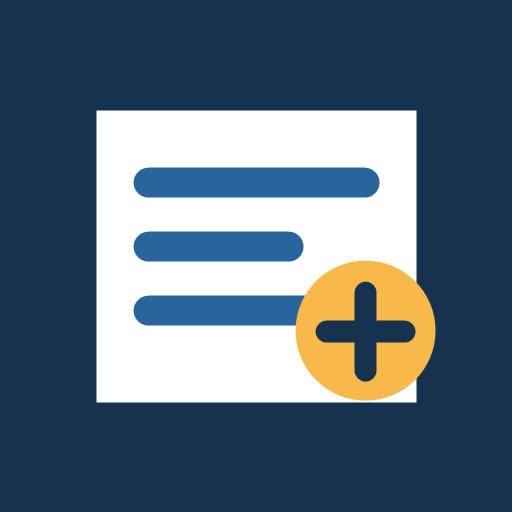
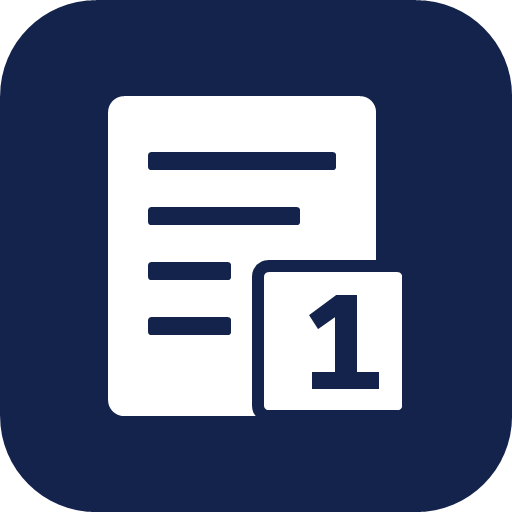
남색 흰색 테마와 사각 순서 배지 적용

diff --git a/2학년 말하기 제비뽑기.html b/2학년 말하기 제비뽑기.html
@@ -3,64 +3,65 @@
 <head>
   <meta charset="utf-8">
   <meta name="viewport" content="width=device-width, initial-scale=1, viewport-fit=cover">
-  <meta name="theme-color" content="#173b5f">
+  <meta name="theme-color" content="#14234b">
   <meta name="apple-mobile-web-app-capable" content="yes">
   <meta name="apple-mobile-web-app-status-bar-style" content="default">
   <meta name="apple-mobile-web-app-title" content="제비뽑기">
   <title>제비뽑기</title>
-  <link rel="manifest" href="manifest.webmanifest?v=14">
-  <link rel="icon" sizes="192x192" href="icon-192.png">
-  <link rel="apple-touch-icon" sizes="180x180" href="icon-180.png">
+  <link rel="manifest" href="manifest.webmanifest?v=15">
+  <link rel="icon" sizes="192x192" href="icon-192.png?v=15">
+  <link rel="apple-touch-icon" sizes="180x180" href="icon-180.png?v=15">
   <style>
-    :root { --ink:#12202e; --navy:#173b5f; --blue:#24689e; --line:#b9c8d5; --paper:#fff; --soft:#eaf1f6; --warm:#ffd465; --shade:#f1f5f8; --danger:#a33a3a; }
+    :root { --ink:#14234b; --navy:#14234b; --blue:#24386c; --line:#c7cfdf; --paper:#fff; --soft:#eef1f7; --shade:#f7f8fb; --muted:#5c6680; --danger:#344263; }
     * { box-sizing:border-box; }
-    body { margin:0; background:#dfe7ed; color:var(--ink); font-family:-apple-system,BlinkMacSystemFont,"Apple SD Gothic Neo","Noto Sans KR",sans-serif; font-size:18px; }
+    body { margin:0; background:#eef1f6; color:var(--ink); font-family:-apple-system,BlinkMacSystemFont,"Apple SD Gothic Neo","Noto Sans KR",sans-serif; font-size:18px; }
     button, input { font:inherit; }
     button { touch-action:manipulation; }
+    button:focus-visible, input:focus-visible { outline:3px solid var(--blue); outline-offset:3px; box-shadow:0 0 0 5px #fff; }
+    input { color:var(--ink); accent-color:var(--navy); }
     .app { width:min(1180px,100%); min-height:100vh; min-height:100dvh; margin:0 auto; background:var(--paper); box-shadow:0 0 36px rgba(18,32,46,.13); }
     header { display:flex; align-items:center; justify-content:space-between; gap:16px; padding:calc(25px + env(safe-area-inset-top)) calc(28px + env(safe-area-inset-right)) 21px calc(28px + env(safe-area-inset-left)); background:var(--navy); color:#fff; }
     h1 { margin:0; font-size:clamp(32px,5vw,48px); letter-spacing:-.05em; }
     .install { border:2px solid #fff; border-radius:10px; background:#fff; color:var(--navy); padding:10px 16px; font-weight:900; white-space:nowrap; cursor:pointer; }
     nav { display:flex; overflow-x:auto; border-bottom:2px solid var(--line); background:#fff; position:sticky; top:0; z-index:10; scrollbar-width:thin; }
-    .tab { flex:0 0 auto; min-width:155px; border:0; border-bottom:6px solid transparent; background:#fff; padding:17px 16px 13px; color:#4b5b68; font-size:20px; font-weight:900; cursor:pointer; }
-    .tab.active { color:var(--navy); background:#eef5fa; border-bottom-color:var(--warm); }
+    .tab { flex:0 0 auto; min-width:155px; border:0; border-bottom:6px solid transparent; background:#fff; padding:17px 16px 13px; color:var(--muted); font-size:20px; font-weight:900; cursor:pointer; }
+    .tab.active { color:var(--navy); background:var(--soft); border-bottom-color:var(--navy); }
     .custom-tab-item { position:relative; display:flex; flex:0 0 auto; align-items:center; background:#fff; }
     .custom-tab-item .tab { padding-right:48px; }
     #sortableTabsNav { display:contents; }
     #sortableTabsNav .tab { cursor:grab; }
     #sortableTabsNav .tab:active { cursor:grabbing; }
-    .tab-drag-ghost { opacity:.35; }
-    .tab-drag-chosen { box-shadow:0 5px 16px rgba(18,32,46,.24); z-index:12; }
-    #sortableTabsNav { display:contents; }
-    .tab-drag-ghost { opacity:.35; background:#d6e5f0; }
-    .tab-drag-chosen { box-shadow:inset 0 -5px 0 var(--warm); }
-    .tab-close { position:absolute; right:10px; top:50%; transform:translateY(-54%); display:grid; place-items:center; width:28px; height:28px; padding:0; border:0; border-radius:50%; background:#a93c3c; color:#fff; font-size:20px; line-height:1; font-weight:1000; cursor:pointer; box-shadow:0 2px 0 rgba(0,0,0,.2); }
-    .tab-close:hover { background:#842a2a; }
+    .tab-drag-ghost { opacity:.35; background:var(--soft); }
+    .tab-drag-chosen { box-shadow:inset 0 -5px 0 var(--navy); z-index:12; }
+    .tab-close { position:absolute; right:10px; top:50%; transform:translateY(-54%); display:grid; place-items:center; width:28px; height:28px; padding:0; border:0; border-radius:50%; background:var(--navy); color:#fff; font-size:20px; line-height:1; font-weight:1000; cursor:pointer; box-shadow:0 2px 0 rgba(20,35,75,.2); }
+    .tab-close:hover { background:var(--blue); }
     .tab-close:active { transform:translateY(-48%); box-shadow:none; }
     .add-tab { flex:0 0 auto; border:0; border-left:1px solid var(--line); background:var(--navy); color:#fff; padding:14px 19px; font-size:19px; font-weight:900; cursor:pointer; }
-    #addTabBtn { min-width:58px; color:var(--warm); font-size:30px; line-height:1; }
+    #addTabBtn { min-width:58px; color:#fff; font-size:30px; line-height:1; }
     .fixed-direct-tab { color:#fff; }
-    .fixed-direct-tab.active { background:var(--blue); box-shadow:inset 0 -6px 0 var(--warm); }
+    .fixed-direct-tab.active { background:var(--blue); color:#fff; box-shadow:inset 0 -6px 0 #fff; border-bottom-color:var(--blue); }
     main { padding:26px max(28px,env(safe-area-inset-right)) calc(52px + env(safe-area-inset-bottom)) max(28px,env(safe-area-inset-left)); }
     .panel { display:none; }
     .panel.active { display:block; }
     .toolbar { display:flex; flex-wrap:wrap; align-items:end; gap:11px; margin-bottom:20px; }
     .order-box { display:flex; flex-wrap:wrap; gap:10px; padding:13px; background:var(--soft); border:1px solid var(--line); border-radius:11px; }
     .order-box label { display:flex; align-items:center; gap:8px; font-size:19px; font-weight:900; }
-    .order-box input { width:66px; border:2px solid #8fa5b7; border-radius:8px; padding:9px; text-align:center; background:#fff; font-size:20px; font-weight:900; }
-    .btn { border:0; border-radius:9px; background:var(--blue); color:#fff; padding:12px 17px; font-size:18px; font-weight:900; cursor:pointer; box-shadow:0 3px 0 rgba(0,0,0,.16); }
+    .order-box input { width:66px; border:2px solid var(--line); border-radius:6px; padding:9px; text-align:center; background:#fff; font-size:20px; font-weight:900; }
+    .btn { border:1px solid transparent; border-radius:6px; background:var(--navy); color:#fff; padding:12px 17px; font-size:18px; font-weight:900; cursor:pointer; box-shadow:0 3px 0 rgba(20,35,75,.15); transition:background-color .18s,box-shadow .18s; }
+    .btn:hover:not(:disabled) { background:var(--blue); }
     .btn:active { transform:translateY(2px); box-shadow:none; }
-    .btn.secondary { background:#5a6c7d; }
-    .btn.light { background:#e5edf3; color:var(--navy); border:1px solid #aebdca; box-shadow:0 2px 0 #aebdca; }
+    .btn.secondary { background:var(--blue); }
+    .btn.light { background:#fff; color:var(--navy); border:1px solid #8c99b5; box-shadow:0 2px 0 var(--line); }
+    .btn.light:hover:not(:disabled) { background:var(--soft); }
     .btn.danger { background:var(--danger); }
-    .class-card { margin:0 0 28px; border:2px solid var(--line); border-radius:13px; overflow:hidden; background:#fff; }
-    .class-head { display:flex; align-items:center; justify-content:space-between; gap:12px; padding:14px 16px; background:#dce8f1; border-bottom:2px solid var(--line); }
+    .class-card { margin:0 0 28px; border:1px solid var(--line); border-radius:8px; overflow:hidden; background:#fff; }
+    .class-head { display:flex; align-items:center; justify-content:space-between; gap:12px; padding:14px 16px; background:var(--soft); border-bottom:1px solid var(--line); }
     .class-head h2 { margin:0; font-size:27px; }
-    .capture-title { margin:0 0 14px; padding:13px 16px; background:var(--navy); color:#fff; border-radius:10px; font-size:28px; }
+    .capture-title { margin:0 0 14px; padding:15px 18px; background:var(--navy); color:#fff; border-radius:6px; font-size:28px; letter-spacing:-.03em; }
     .table-wrap { overflow-x:auto; }
     table { width:100%; min-width:650px; border-collapse:collapse; table-layout:fixed; }
-    th, td { padding:14px 12px; border-bottom:1px solid #cbd6df; text-align:center; }
-    th { background:#cbdce8; color:#18344d; font-size:20px; font-weight:900; }
+    th, td { padding:14px 12px; border-bottom:1px solid var(--line); text-align:center; }
+    th { background:var(--soft); color:var(--navy); font-size:20px; font-weight:900; }
     tbody tr:nth-child(even) td { background:var(--shade); }
     tbody tr:last-child td { border-bottom:0; }
     td { font-size:22px; font-weight:700; }
@@ -68,52 +69,52 @@
     td:nth-child(2), th:nth-child(2) { width:25%; }
     td:nth-child(3), th:nth-child(3) { width:34%; }
     td:nth-child(4), th:nth-child(4) { width:26%; }
-    td.order-cell, tbody tr:nth-child(even) td.order-cell { background:#fff0b8; }
-    th.order-head { background:#f3bd39; color:#112a40; }
+    td.order-cell, tbody tr:nth-child(even) td.order-cell { background:#e9edf6; border-left:1px solid var(--line); }
+    th.order-head { background:var(--navy); color:#fff; letter-spacing:.08em; }
     .name-with-exclude { display:flex; align-items:center; justify-content:center; gap:14px; }
-    .exclude-label { display:inline-flex; align-items:center; gap:5px; padding:5px 8px; border:1px solid #b7c3cd; border-radius:7px; background:#fff; color:#7d2d2d; font-size:15px; font-weight:900; white-space:nowrap; cursor:pointer; }
-    .exclude-label input { width:21px; height:21px; margin:0; accent-color:#b33b3b; }
-    .excluded-row td, tbody tr:nth-child(even).excluded-row td { background:#e4e7e9; color:#7a8289; }
+    .exclude-label { display:inline-flex; align-items:center; gap:5px; padding:5px 8px; border:1px solid var(--line); border-radius:5px; background:#fff; color:var(--muted); font-size:15px; font-weight:900; white-space:nowrap; cursor:pointer; }
+    .exclude-label input { width:21px; height:21px; margin:0; accent-color:var(--navy); }
+    .excluded-row td, tbody tr:nth-child(even).excluded-row td { background:#eef0f4; color:var(--muted); }
     .excluded-row td:not(.order-cell) { text-decoration:line-through; }
     .excluded-row .exclude-label, .excluded-row input { text-decoration:none; }
-    .excluded-row td.order-cell { background:#d9dddf; }
-    .rank { display:inline-grid; place-items:center; min-width:64px; height:54px; padding:0 13px; border-radius:27px; background:var(--navy); color:#fff; font-size:30px; line-height:1; font-weight:1000; box-shadow:0 3px 0 rgba(0,0,0,.18); }
-    .rank.top { background:#b4372e; }
-    .rank.empty { background:#9aa8b4; }
+    .excluded-row td.order-cell, tbody tr:nth-child(even).excluded-row td.order-cell { background:#e4e8ef; }
+    .rank { display:inline-grid; place-items:center; min-width:64px; height:64px; padding:0 10px; border:2px solid var(--navy); border-radius:5px; background:#fff; color:var(--navy); font-size:32px; line-height:1; font-weight:900; font-variant-numeric:tabular-nums; letter-spacing:-.04em; box-shadow:3px 3px 0 #c5cede; }
+    .rank.top { background:var(--navy); color:#fff; border-color:var(--navy); box-shadow:inset 0 0 0 3px var(--navy),inset 0 0 0 4px rgba(255,255,255,.6),3px 3px 0 #bac4d8; }
+    .rank.empty { background:#eef0f4; color:var(--muted); border-color:#9da8bc; box-shadow:none; }
     .direct-setup { display:flex; flex-wrap:wrap; align-items:end; gap:11px; margin-bottom:20px; }
     .direct-setup label { display:grid; gap:7px; font-size:19px; font-weight:900; }
-    .direct-setup input { width:135px; border:2px solid #8fa5b7; border-radius:8px; padding:10px; font-size:20px; font-weight:800; }
+    .direct-setup input { width:135px; border:2px solid var(--line); border-radius:6px; padding:10px; font-size:20px; font-weight:800; }
     .direct-actions { display:flex; flex-wrap:wrap; gap:11px; margin:-8px 0 20px; }
-    .save-tab-row { display:flex; margin:-8px 0 20px; padding:13px; border:2px solid #9eb3c3; border-radius:11px; background:#eef4f8; }
+    .save-tab-row { display:flex; margin:-8px 0 20px; padding:13px; border:1px solid var(--line); border-radius:6px; background:var(--soft); }
     .save-tab-row .btn { min-width:180px; background:var(--navy); }
-    .add-rows-btn { background:#7a8894; opacity:.62; transition:background-color .2s ease,opacity .2s ease,transform .2s ease,box-shadow .2s ease; }
+    .add-rows-btn { background:#e5e9f1; color:var(--muted); border-color:var(--line); transition:background-color .2s ease,transform .2s ease,box-shadow .2s ease; }
     .add-rows-btn:disabled { cursor:default; box-shadow:none; }
-    .add-rows-btn.is-ready { background:#d36d22; opacity:1; animation:addReady .72s ease-in-out infinite alternate; }
-    @keyframes addReady { from { transform:translateY(0); box-shadow:0 3px 0 rgba(0,0,0,.16),0 0 0 0 rgba(211,109,34,.22); } to { transform:translateY(-2px); box-shadow:0 5px 0 rgba(0,0,0,.16),0 0 0 7px rgba(211,109,34,.14); } }
-    .entry { width:100%; border:2px solid #b8c6d1; border-radius:7px; padding:10px 8px; text-align:center; background:#fff; font-size:20px; font-weight:750; }
-    .entry:focus { outline:3px solid #6ba3ce; border-color:#6ba3ce; }
+    .add-rows-btn.is-ready { background:var(--navy); color:#fff; border-color:var(--navy); animation:addReady .9s ease-in-out infinite alternate; }
+    @keyframes addReady { from { transform:translateY(0); box-shadow:0 3px 0 rgba(20,35,75,.16),0 0 0 0 rgba(20,35,75,.16); } to { transform:translateY(-2px); box-shadow:0 5px 0 rgba(20,35,75,.16),0 0 0 6px rgba(20,35,75,.10); } }
+    .entry { width:100%; border:1px solid #aab5ca; border-radius:5px; padding:10px 8px; text-align:center; background:#fff; font-size:20px; font-weight:750; }
+    .entry:focus { outline:2px solid var(--blue); border-color:var(--blue); }
     dialog { width:min(470px,calc(100% - 30px)); border:0; border-radius:15px; padding:0; box-shadow:0 18px 70px rgba(0,0,0,.35); }
     dialog::backdrop { background:rgba(15,30,45,.55); }
     .dialog-body { padding:24px; }
     .dialog-body h2 { margin:0 0 20px; font-size:28px; }
     .dialog-body label { display:grid; gap:7px; margin:0 0 16px; font-weight:900; }
-    .dialog-body input { width:100%; border:2px solid #8fa5b7; border-radius:8px; padding:11px; font-size:20px; }
-    .nice-upload-box { margin:0 0 22px; padding:17px; border:2px solid #7fa2bd; border-radius:12px; background:#e9f3fa; }
+    .dialog-body input { width:100%; border:2px solid var(--line); border-radius:6px; padding:11px; font-size:20px; }
+    .nice-upload-box { margin:0 0 22px; padding:17px; border:1px solid #9daac4; border-radius:8px; background:var(--soft); }
     .nice-upload-box h3 { margin:0 0 10px; color:var(--navy); font-size:22px; }
-    .nice-path { margin:0 0 14px; color:#344b5d; font-size:15px; font-weight:750; line-height:1.6; }
-    .nice-file { display:block!important; margin:0!important; padding:12px; border:2px dashed #7194ae; border-radius:9px; background:#fff; color:var(--navy); text-align:center; cursor:pointer; }
+    .nice-path { margin:0 0 14px; color:var(--muted); font-size:15px; font-weight:750; line-height:1.6; }
+    .nice-file { display:block!important; margin:0!important; padding:12px; border:1px dashed var(--navy); border-radius:6px; background:#fff; color:var(--navy); text-align:center; cursor:pointer; }
     .nice-file input { margin-top:8px; padding:7px; font-size:16px; }
-    .nice-status { min-height:22px; margin:10px 0 0; color:#24567c; font-size:15px; font-weight:850; }
-    .dialog-divider { display:flex; align-items:center; gap:10px; margin:0 0 18px; color:#687986; font-size:15px; font-weight:900; }
-    .dialog-divider::before, .dialog-divider::after { content:""; flex:1; height:1px; background:#b8c5cf; }
+    .nice-status { min-height:22px; margin:10px 0 0; color:var(--navy); font-size:15px; font-weight:850; }
+    .dialog-divider { display:flex; align-items:center; gap:10px; margin:0 0 18px; color:var(--muted); font-size:15px; font-weight:900; }
+    .dialog-divider::before, .dialog-divider::after { content:""; flex:1; height:1px; background:var(--line); }
     .type-choice { display:grid; grid-template-columns:1fr 1fr; gap:10px; margin:0 0 18px; }
-    .type-choice label { display:flex; align-items:center; justify-content:center; gap:9px; margin:0; padding:14px; border:2px solid #9fb2c1; border-radius:10px; background:#edf3f7; cursor:pointer; }
+    .type-choice label { display:flex; align-items:center; justify-content:center; gap:9px; margin:0; padding:14px; border:1px solid var(--line); border-radius:6px; background:var(--soft); cursor:pointer; }
     .type-choice input { width:22px; height:22px; margin:0; }
     .split-add { display:flex; flex-wrap:wrap; align-items:end; gap:10px; margin:0 0 20px; padding:14px; border:2px solid var(--line); border-radius:11px; background:var(--soft); }
     .split-add label, .class-head label { display:grid; gap:5px; font-size:17px; font-weight:900; }
-    .split-add input, .class-head input { width:105px; border:2px solid #8fa5b7; border-radius:8px; padding:8px; text-align:center; background:#fff; font-size:19px; font-weight:900; }
+    .split-add input, .class-head input { width:105px; border:2px solid var(--line); border-radius:6px; padding:8px; text-align:center; background:#fff; font-size:19px; font-weight:900; }
     .class-actions { display:flex; flex-wrap:wrap; align-items:end; justify-content:flex-end; gap:8px; }
-    .empty-note { padding:34px 16px; border:2px dashed #9fb2c1; border-radius:12px; background:#f5f8fa; text-align:center; font-size:22px; font-weight:900; color:#536879; }
+    .empty-note { padding:34px 16px; border:1px dashed #9daac4; border-radius:8px; background:var(--shade); text-align:center; font-size:22px; font-weight:900; color:var(--muted); }
     .dialog-actions { display:flex; justify-content:flex-end; gap:10px; margin-top:22px; }
     @media (min-width:681px) and (max-width:900px) {
       main { padding:22px 18px 44px; }
@@ -141,17 +142,17 @@
       table { min-width:0; table-layout:auto; }
       thead { position:absolute; width:1px; height:1px; overflow:hidden; clip:rect(0 0 0 0); }
       tbody { display:block; padding:10px; }
-      tbody tr { display:block; margin:0 0 12px; border:2px solid #c1ced8; border-radius:11px; overflow:hidden; background:#fff; }
+      tbody tr { display:block; margin:0 0 12px; border:1px solid var(--line); border-radius:7px; overflow:hidden; background:#fff; }
       tbody tr:last-child { margin-bottom:0; }
-      tbody tr:nth-child(even) td { background:#f4f7f9; }
-      td, td:nth-child(1), td:nth-child(2), td:nth-child(3), td:nth-child(4) { display:grid; grid-template-columns:72px minmax(0,1fr); align-items:center; width:auto; min-height:52px; padding:9px 11px; border-bottom:1px solid #d5dde3; text-align:left; font-size:20px; }
+      tbody tr:nth-child(even) td { background:var(--shade); }
+      td, td:nth-child(1), td:nth-child(2), td:nth-child(3), td:nth-child(4) { display:grid; grid-template-columns:72px minmax(0,1fr); align-items:center; width:auto; min-height:52px; padding:9px 11px; border-bottom:1px solid var(--line); text-align:left; font-size:20px; }
       td:last-child { border-bottom:0; }
-      td::before { color:#476072; font-size:15px; font-weight:900; }
+      td::before { color:var(--muted); font-size:15px; font-weight:900; }
       td:nth-child(1)::before { content:"반"; }
       td:nth-child(2)::before { content:"학번"; }
       td:nth-child(3)::before { content:"이름"; }
       td:nth-child(4)::before { content:"순서"; }
-      td.order-cell, tbody tr:nth-child(even) td.order-cell { background:#fff0b8; }
+      td.order-cell, tbody tr:nth-child(even) td.order-cell { background:#e9edf6; border-left:0; }
       .name-with-exclude { justify-content:flex-start; min-width:0; }
       .name-with-exclude .entry { min-width:0; }
       .rank { justify-self:start; }
@@ -168,7 +169,8 @@
       .exclude-label { font-size:14px; }
       .dialog-body { padding:18px 15px; }
     }
-    @media print { header, nav, .toolbar, .direct-setup, .class-head .btn { display:none!important; } .app { box-shadow:none; } main { padding:0; } .panel { display:none!important; } .panel.active { display:block!important; } .class-card { break-inside:avoid; } }
+    @media (prefers-reduced-motion:reduce) { .add-rows-btn.is-ready { animation:none; } button { transition:none!important; } }
+    @media print { header, nav, .toolbar, .direct-setup, .direct-actions, .save-tab-row, .class-head .btn { display:none!important; } .app { box-shadow:none; } main { padding:0; } .panel { display:none!important; } .panel.active { display:block!important; } .class-card { break-inside:avoid; } }
   </style>
 </head>
 <body>
@@ -612,7 +614,7 @@ installBtn.addEventListener('click',async()=>{
   else alert('Chrome 주소창 오른쪽의 설치 아이콘을 눌러 설치하세요.');
 });
 if('serviceWorker' in navigator&&location.protocol!=='file:') {
-  navigator.serviceWorker.register('./service-worker.js?v=14',{updateViaCache:'none'}).then(reg=>reg.update());
+  navigator.serviceWorker.register('./service-worker.js?v=15',{updateViaCache:'none'}).then(reg=>reg.update());
 }
 renderAll();
 </script>

diff --git a/service-worker.js b/service-worker.js
@@ -1,5 +1,5 @@
-const CACHE='speaking-draw-v14';
-const FILES=['./','./index.html','./2%ED%95%99%EB%85%84%20%EB%A7%90%ED%95%98%EA%B8%B0%20%EC%A0%9C%EB%B9%84%EB%BD%91%EA%B8%B0.html?v=14','./manifest.webmanifest?v=14','./icon.svg','./icon-180.png','./icon-192.png','./icon-512.png','./html2canvas.min.js?v=1','./xlsx.full.min.js?v=1','./Sortable.min.js?v=1'];
+const CACHE='speaking-draw-v15';
+const FILES=['./','./index.html','./2%ED%95%99%EB%85%84%20%EB%A7%90%ED%95%98%EA%B8%B0%20%EC%A0%9C%EB%B9%84%EB%BD%91%EA%B8%B0.html?v=15','./manifest.webmanifest?v=15','./icon.svg','./icon-180.png?v=15','./icon-192.png?v=15','./icon-512.png?v=15','./html2canvas.min.js?v=1','./xlsx.full.min.js?v=1','./Sortable.min.js?v=1'];
 self.addEventListener('install',e=>e.waitUntil(caches.open(CACHE).then(c=>c.addAll(FILES)).then(()=>self.skipWaiting())));
 self.addEventListener('activate',e=>e.waitUntil(caches.keys().then(keys=>Promise.all(keys.filter(k=>k!==CACHE).map(k=>caches.delete(k)))).then(()=>self.clients.claim())));
 self.addEventListener('fetch',e=>{

diff --git a/index.html b/index.html
@@ -1,1 +1,1 @@
-<!doctype html><meta charset="utf-8"><meta name="viewport" content="width=device-width,initial-scale=1"><title>제비뽑기</title><script>location.replace('./2%ED%95%99%EB%85%84%20%EB%A7%90%ED%95%98%EA%B8%B0%20%EC%A0%9C%EB%B9%84%EB%BD%91%EA%B8%B0.html?v=14')</script><a href="./2학년 말하기 제비뽑기.html?v=14">제비뽑기</a>
+<!doctype html><meta charset="utf-8"><meta name="viewport" content="width=device-width,initial-scale=1"><title>제비뽑기</title><script>location.replace('./2%ED%95%99%EB%85%84%20%EB%A7%90%ED%95%98%EA%B8%B0%20%EC%A0%9C%EB%B9%84%EB%BD%91%EA%B8%B0.html?v=15')</script><a href="./2학년 말하기 제비뽑기.html?v=15">제비뽑기</a>

diff --git a/desktop-app/main.js b/desktop-app/main.js
@@ -8,7 +8,7 @@ function createWindow() {
     minWidth: 380,
     minHeight: 600,
     title: '제비뽑기',
-    backgroundColor: '#dfe7ed',
+    backgroundColor: '#eef1f6',
     icon: path.join(process.resourcesPath, 'web', 'icon-512.png'),
     autoHideMenuBar: true,
     webPreferences: {
